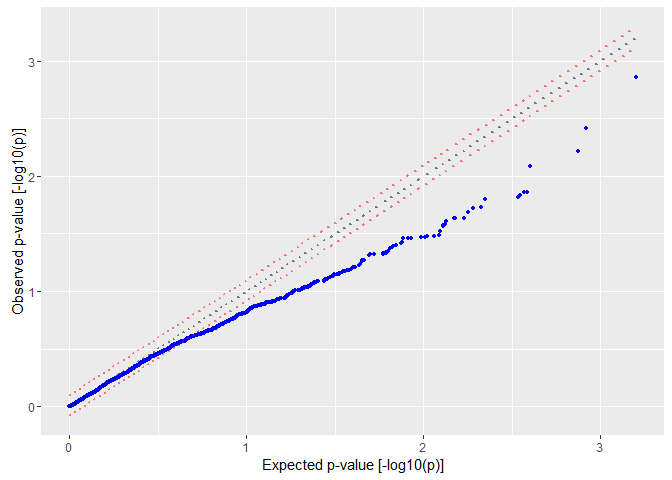
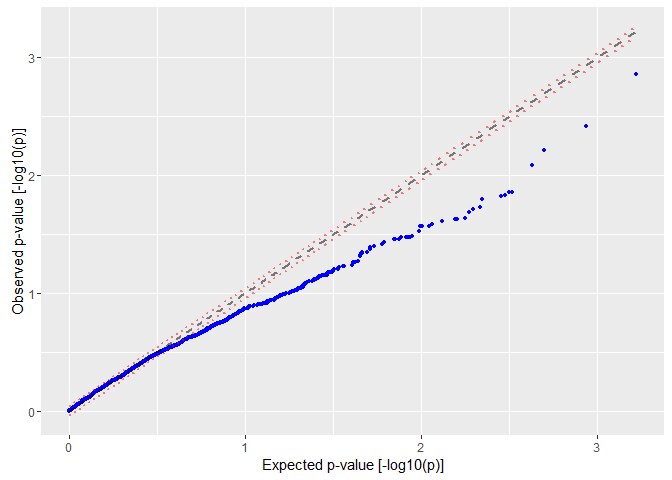
Corrected the estimation of the FDR.

diff --git a/Expression_data/quantitative_proteomics.md b/Expression_data/quantitative_proteomics.md
@@ -393,7 +393,9 @@ QQ Plot
 We will now see whether the t-test statistics actually follow a t-distribution. This is achieved by drawing a quantile-quantile plot (qq-plot) where the quantile of the observed t-statistics is plotted against the theoretical quantiles of the Student t distribution.
 
 ``` r
-expectedQuantiles <- rt(length(validProteinGroupsRatios$tTestStatistic), df=5-2)
+degreesOfFreedom <- 5-2 # 5 cell lines
+
+expectedQuantiles <- rt(length(validProteinGroupsRatios$tTestStatistic), df=degreesOfFreedom)
 expectedQuantiles <- sort(expectedQuantiles)
 measuredQuantiles <- validProteinGroupsRatios$tTestStatistic
 measuredQuantiles <- sort(measuredQuantiles)
@@ -407,24 +409,26 @@ plot(qqPlot)
 
 ![](quantitative_proteomics_files/figure-markdown_github/qq_plot-1.png)
 
-It is possible to make the same plot for the observed and expected p-values, based on these quantiles. The red values show a 20% deviation from the expected p-values. Note that the measured p-values deviate from the diagonal, indicating that our dataset does not fully satisfy the hypotheses of the t-test.
+It is possible to make the same plot for the observed and expected p-values, based on these quantiles. The red dots show a tolerated deviation ratio of from the expected p-values as set in the *ppTolerance* variable. Note that the measured p-values deviate from the diagonal at low p-values, indicating that our dataset does not fully satisfy the hypotheses of the t-test.
 
 ``` r
-expectedPValues <- pt(expectedQuantiles, lower.tail = expectedQuantiles < 0, df=5-2)
+ppTolerance <-1.1
+
+expectedPValues <- pt(expectedQuantiles, lower.tail = expectedQuantiles < 0, df=degreesOfFreedom)
 expectedPValues <- sort(expectedPValues)
 expectedPValuesLog <- -log10(expectedPValues)
 measuredPValues <- validProteinGroupsRatios$tTestPValue
 measuredPValues <- sort(measuredPValues)
 measuredPValuesLog <- -log10(measuredPValues)
 
-limitLow <- 0.8 * expectedPValues
+limitLow <- expectedPValues/ppTolerance
 limitLow <- -log10(limitLow)
-limitHigh <- 1.2 * expectedPValues
+limitHigh <- ppTolerance * expectedPValues
 limitHigh <- -log10(limitHigh)
 
 ppPlot <- ggplot()
 ppPlot <- ppPlot + geom_point(aes(x=expectedPValuesLog, y=measuredPValuesLog), size = 1, col = "blue")
-ppPlot <- ppPlot + geom_line(aes(x=expectedPValuesLog, y=expectedPValuesLog), size = 1, alpha = 0.5, linetype = "dotted")
+ppPlot <- ppPlot + geom_line(aes(x=expectedPValuesLog, y=expectedPValuesLog), size = 1, alpha = 0.5, linetype = "dashed", col="black")
 ppPlot <- ppPlot + geom_line(aes(x=expectedPValuesLog, y=limitLow), size = 1, alpha = 0.5, linetype = "dotted", col="red")
 ppPlot <- ppPlot + geom_line(aes(x=expectedPValuesLog, y=limitHigh), size = 1, alpha = 0.5, linetype = "dotted", col="red")
 ppPlot <- ppPlot + xlab("Expected p-value [-log10(p)]") + ylab("Observed p-value [-log10(p)]")
@@ -432,6 +436,28 @@ plot(ppPlot)
 ```
 
 ![](quantitative_proteomics_files/figure-markdown_github/pp_plot-1.png)
+
+We calculate lambda as the ratio of the observed p-value and the expected p-value. A density plot shows that the majority of the p-values are within a 1.1 deviation ratio.
+
+``` r
+lambda <- measuredPValues/expectedPValues
+lambdaLog <- log(lambda, base = ppTolerance)
+
+lambdaHistogramPlot <- ggplot()
+lambdaHistogramPlot <- lambdaHistogramPlot + geom_density(aes(x=lambdaLog), col="blue", fill = "blue", alpha = 0.1)
+lambdaHistogramPlot <- lambdaHistogramPlot + geom_vline(aes(xintercept=-1), col="red", alpha = 0.8, linetype="dotted")
+lambdaHistogramPlot <- lambdaHistogramPlot + geom_vline(aes(xintercept=1), col="red", alpha = 0.8, linetype="dotted")
+lambdaHistogramPlot <- lambdaHistogramPlot + xlab(paste("Lambda (Observed p-value / Expected p-value) [log", ppTolerance, "]", sep="")) + ylab("Density of proteins")
+plot(lambdaHistogramPlot)
+```
+
+![](quantitative_proteomics_files/figure-markdown_github/hist_lambda-1.png)
+
+``` r
+corePopulation <- round(100*length(lambdaLog[abs(lambdaLog) <= 1])/length(lambdaLog))/100
+```
+
+76% of the p-values is contained within the 1.1 deviation ratio. This percentile will be used in the following as core population.
 
 Multiple hypothesis testing
 ---------------------------
@@ -442,26 +468,26 @@ In the following, we estimate the FDR at every p-value and plot it against the (
 
 ``` r
 measuredPValues <- validProteinGroupsRatios$tTestPValue
-measuredPValues <- sort(measuredPValues)
 measuredPValuesLog <- -log10(measuredPValues)
 measuredStatistics <- validProteinGroupsRatios$tTestStatistic
-measuredP <- dt(measuredStatistics, df =5-2)
-measuredP <- sort(measuredP)
+measuredP <- dt(measuredStatistics, df =degreesOfFreedom)
 nfp <- c()
 fdr <- c()
-nfpAtI <- 0
-for (i in 1:length(measuredP)) {
-  nfpAtI <- nfpAtI + measuredP[i]
-  nfp <- c(nfp, nfpAtI)
-  fdrAtI <- nfpAtI / length(measuredP)
-  fdr <- c(fdr, fdrAtI)
+totalFP <- 0
+index <- 1
+for (i in order(measuredP)) {
+  totalFP <- totalFP + measuredP[i]
+  nfp <- c(nfp, totalFP)
+  fdrAtI <- totalFP / index
+  fdr[i] <- fdrAtI
+  index <- index + 1
 }
-
+validProteinGroupsRatios$fdr <- fdr
 fdrPercent <- 100 * fdr
 
 qqPlot <- ggplot()
-qqPlot <- qqPlot + geom_point(aes(x=measuredPValuesLog, y=fdrPercent), size = 1, col = "blue")
-qqPlot <- qqPlot + xlab("Observed p-value [-log10(p)]") + ylab("FDR (%)")
+qqPlot <- qqPlot + geom_point(aes(x=measuredStatistics, y=fdrPercent), alpha=0.5, size = 1, col = "blue")
+qqPlot <- qqPlot + xlab("Observed t-statistic") + ylab("FDR (%)")
 plot(qqPlot)
 ```
 
@@ -499,11 +525,45 @@ plot(fcHistogramPlot)
 
 With the hypothesis that false positives introduced by multiple hypothesis testing are likely to distribute according to the rest of the fold changes, independently of the p-value, we can use the fold change as independent weighting hypothesis for the FDR estimation.
 
+``` r
+scoreNorm <- dnorm(validProteinGroupsRatios$fc, mean = medianFC, sd = interQuantilesFC/2)
+scoreT <- dt(validProteinGroupsRatios$tTestStatistic, df =degreesOfFreedom)
+tNormScore <- scoreNorm * scoreT
+validProteinGroupsRatios$tNormScore <- tNormScore
+sumScore <- sum(tNormScore)
+scoreSums <- c()
+currentSum <- 0
+for (i in order(validProteinGroupsRatios$tNormScore)) {
+  currentSum <- currentSum + tNormScore[i]
+  scoreSums[i] <- currentSum
+}
+scoreSums <- scoreSums / currentSum * totalFP
+correctedFdr <- c()
+index <- 1
+for (i in order(validProteinGroupsRatios$tNormScore)) {
+  correctedFdr[i] <- scoreSums[i] / index
+  index <- index + 1
+}
+validProteinGroupsRatios$correctedFdr <- correctedFdr
+correctedFdrPercent <- 100 * correctedFdr
+
+regulationConfidence <- ifelse(correctedFdrPercent <= 5, "Middle", "Low")
+regulationConfidence <- ifelse(correctedFdrPercent <= 1, "High", regulationConfidence)
+
+qqPlot <- ggplot()
+qqPlot <- qqPlot + geom_point(aes(x=tNormScore, y=fdrPercent), size = 1, alpha=0.5, col = "blue")
+qqPlot <- qqPlot + geom_point(aes(x=tNormScore, y=correctedFdrPercent, col=regulationConfidence), size = 1, alpha=0.5)
+qqPlot <- qqPlot + xlab("p(t)*p(norm)") + ylab("FDR (%)")
+plot(qqPlot)
+```
+
+![](quantitative_proteomics_files/figure-markdown_github/fdr_correction_plot-1.png)
+
 In the following, we plot the p-value against the fold change between the two conditions.
 
 ``` r
 volcanoPlot <- ggplot()
-volcanoPlot <- volcanoPlot + geom_point(aes(x=validProteinGroupsRatios$fc, y=validProteinGroupsRatios$tTestPValueLog), size = 1, alpha = 0.5, col = "blue")
+volcanoPlot <- volcanoPlot + geom_point(aes(x=validProteinGroupsRatios$fc, y=validProteinGroupsRatios$tTestPValueLog, col=regulationConfidence), size = 1, alpha = 0.5)
 volcanoPlot <- volcanoPlot + xlab("Fold Change [log2]") + ylab("p-value [-log(p)]")
 plot(volcanoPlot)
 ```
